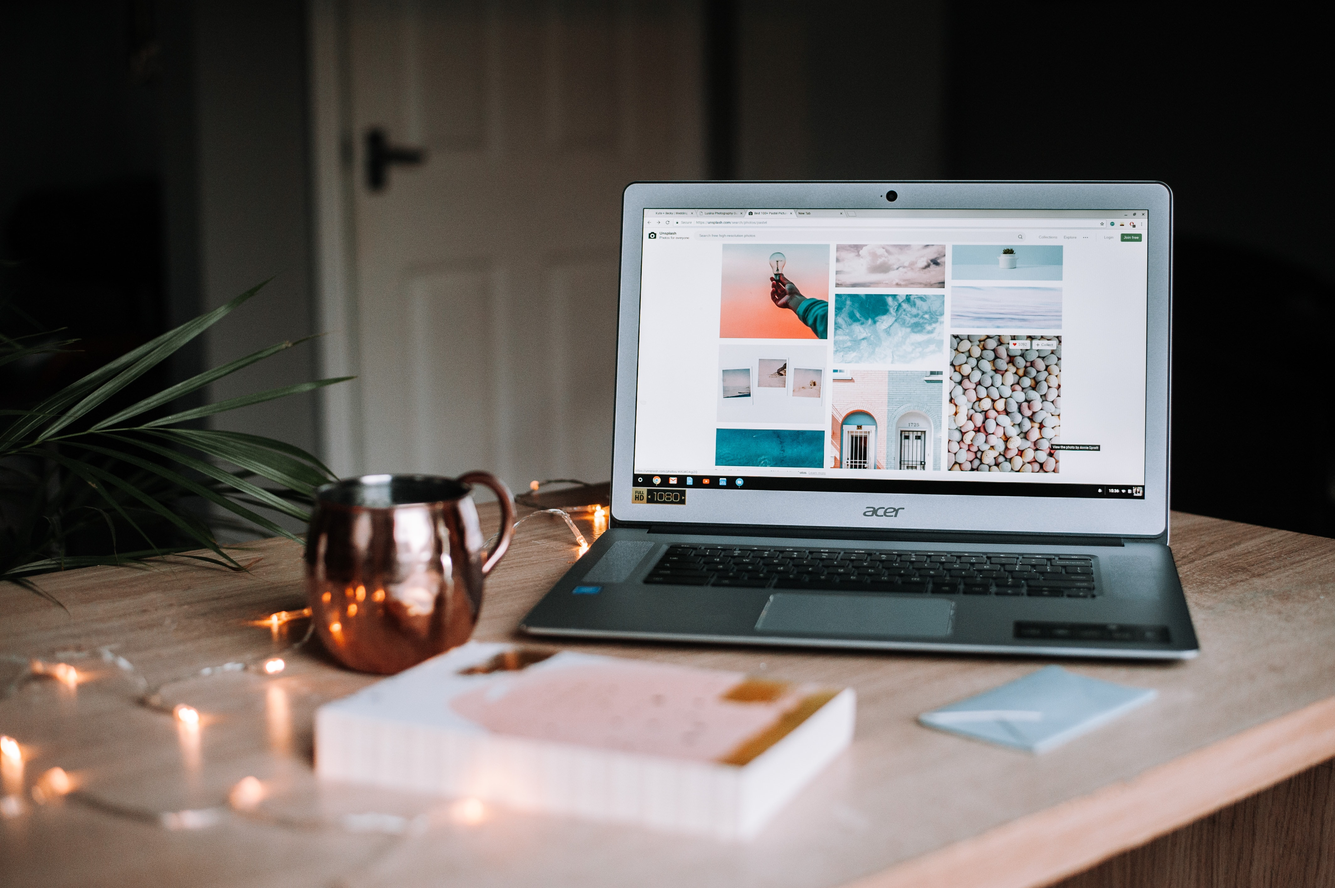
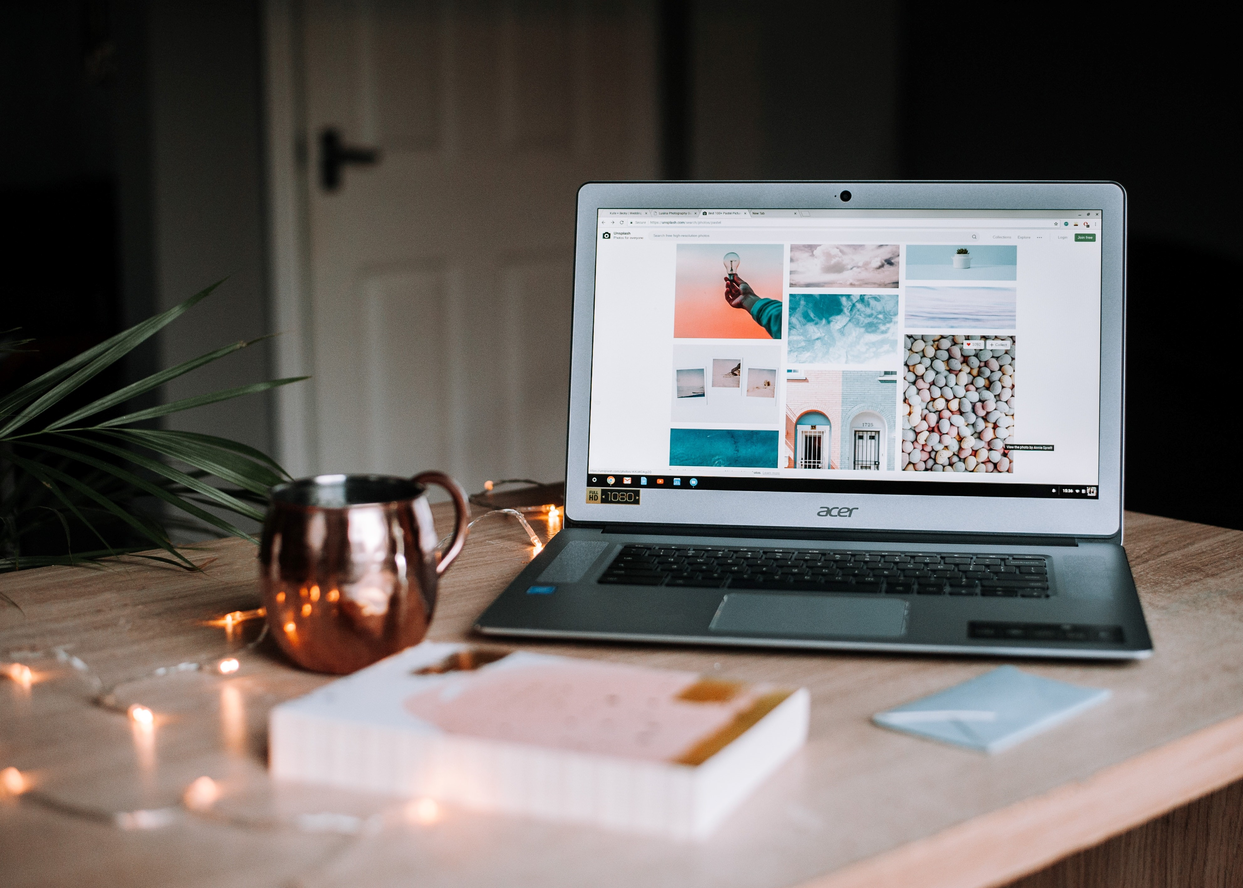
PORTFOLIO: CSS for small UI changes

diff --git a/index.html b/index.html
@@ -586,7 +586,7 @@
                             <div class="portfolio__data">
                                 <h3 class="portfolio__title">Modern Website</h3>
                                 <p class="portfolio__description">Website adaptabe to all devices, with UI components and animated interactions.</p>
-                                <a href="#" class="portfolio__button button--small button button--flex">
+                                <a href="#" class="portfolio__button button button--flex button--small button--link">
                                     Demo
                                     <i class="button__icon uil uil-arrow-right"></i>
                                 </a>
@@ -599,7 +599,7 @@
                             <div class="portfolio__data">
                                 <h3 class="portfolio__title">Brand Redesign</h3>
                                 <p class="portfolio__description">Giving new life to a brand with a fresh look and better user experience.</p>
-                                <a href="#" class="portfolio__button button--small button button--flex">
+                                <a href="#" class="portfolio__button button button--flex button--small button--link">
                                     Demo
                                     <i class="button__icon uil uil-arrow-right"></i>
                                 </a>
@@ -612,7 +612,7 @@
                             <div class="portfolio__data">
                                 <h3 class="portfolio__title">UX Case Study</h3>
                                 <p class="portfolio__description">Complete case study of an idea with user research and feedback.</p>
-                                <a href="#" class="portfolio__button button--small button button--flex">
+                                <a href="#" class="portfolio__button button button--flex button--small button--link">
                                     Demo
                                     <i class="button__icon uil uil-arrow-right"></i>
                                 </a>

diff --git a/css/styles.css b/css/styles.css
@@ -677,7 +677,7 @@ img {
 }
 
 .portfolio__img {
-    width: 265px;
+    width: 400px;
     border-radius: 0.5rem;
     justify-self: center;
 }
@@ -706,15 +706,15 @@ img {
 }
 
 .swiper-button-prev {
-    left: -0.5rem;
+    left: -1rem;
 }
 
 .swiper-button-next {
-    right: -0.5rem;
+    right: -0.25rem;
 }
 
-.swiper-container-horizontal > .swiper-pagination-bullets {
-    bottom: -2.5rem;
+.swiper-horizontal > .swiper-pagination-bullets {
+    bottom: -3rem;
 }
 
 .swiper-pagination-bullet-active {
